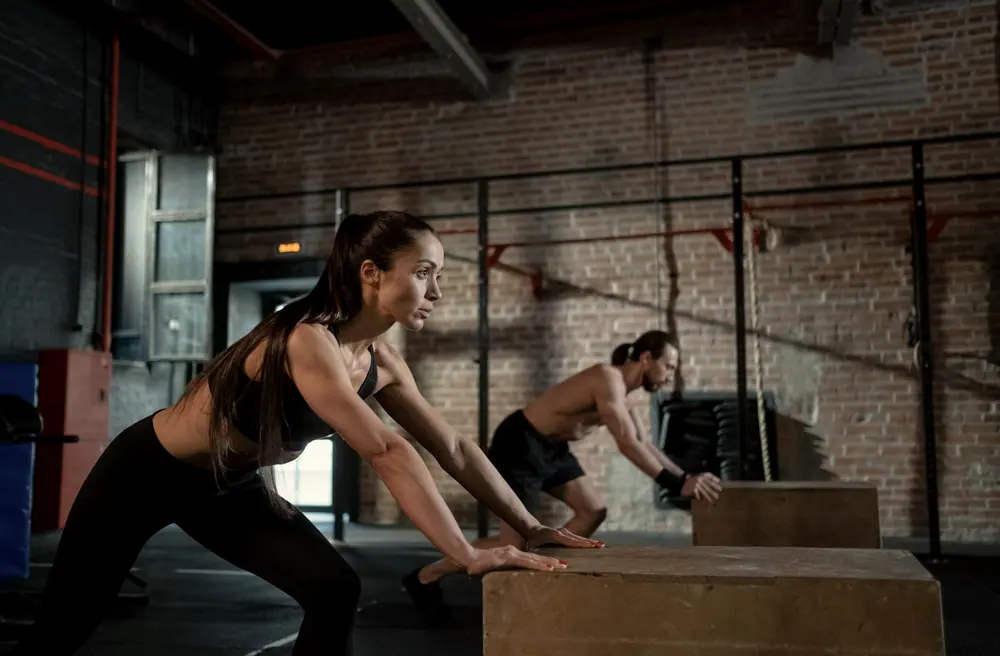
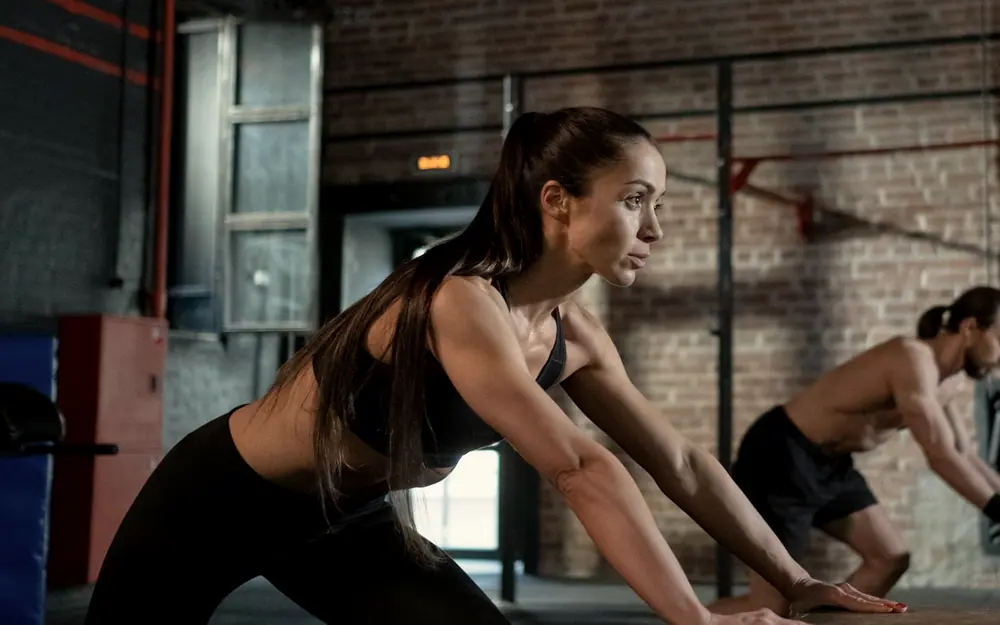
Mobile hero: CTA in first screen, shorter eyebrow, tighter crop
- On phones the action buttons sit right under the photo (lead text
  follows), with a slightly smaller title and 16:10 photo, so
  "Rasti treniruotę" is visible without scrolling (checked at 360x640
  and 390x700)
- Eyebrow drops "· Vilnius" below 560px so it fits on one line
- Mobile hero crop centres on the athlete

diff --git a/src/styles.css b/src/styles.css
@@ -212,16 +212,17 @@ main:focus { outline: none; }
 }
 .hero__inner { display: grid; gap: 22px; }
 .hero__eyebrow { order: 0; }
+@media (max-width: 559px) { .hero__eyebrow-city { display: none; } }
 .hero__title {
   order: 1; position: relative; z-index: 2;
-  font-size: clamp(4.6rem, 23vw, 13.2rem); line-height: 0.84; margin-bottom: -0.3em;
+  font-size: clamp(4.2rem, 20vw, 13.2rem); line-height: 0.84; margin-bottom: -0.3em;
 }
 .hero__line { display: block; }
 .hero__line:nth-child(2) { padding-left: 0.9em; }
 .hero__dot { color: var(--lime); }
 .hero__media {
   order: 2; position: relative; margin-inline: calc(var(--gutter) * -1);
-  aspect-ratio: 16 / 10.5; overflow: hidden; background: var(--ink-3);
+  aspect-ratio: 16 / 10; overflow: hidden; background: var(--ink-3);
 }
 .hero__media img { width: 100%; height: 100%; object-fit: cover; object-position: 40% 30%; filter: saturate(0.88) contrast(1.04); }
 .hero__media::after { content: ''; position: absolute; inset: 0 0 auto; height: 40%; background: linear-gradient(var(--ink), transparent); opacity: 0.85; }
@@ -743,3 +744,9 @@ main:focus { outline: none; }
 /* Draw each line once when its row scrolls into view (skipped under reduced motion: .has-reveal is not set). */
 .has-reveal .rhythm__row:not(.is-in) .rhythm__line { stroke-dashoffset: 1; }
 .has-reveal .rhythm__row .rhythm__line { transition: stroke-dashoffset 1.8s cubic-bezier(0.45, 0, 0.2, 1), opacity 0.3s; }
+
+/* Mobile hero: primary action sits right under the photo so it is visible in the first screen. */
+@media (max-width: 899px) {
+  .hero__copy { display: flex; flex-direction: column; gap: 20px; margin-top: 4px; }
+  .hero__actions { order: -1; }
+}

diff --git a/index.html b/index.html
@@ -75,7 +75,7 @@
       <!-- ============ HERO ============ -->
       <section class="hero" id="top" aria-labelledby="hero-title">
         <div class="hero__inner">
-          <p class="eyebrow hero__eyebrow">Funkcinio treniravimo studija · Vilnius</p>
+          <p class="eyebrow hero__eyebrow"><span>Funkcinio treniravimo studija<span class="hero__eyebrow-city"> · Vilnius</span></span></p>
           <h1 class="hero__title" id="hero-title">
             <span class="hero__line">Judėk</span>
             <span class="hero__line">savo</span>
@@ -88,7 +88,7 @@
                 src="/img/hero-m-1000.webp"
                 srcset="/img/hero-m-640.webp 640w, /img/hero-m-1000.webp 1000w, /img/hero-m-1400.webp 1400w"
                 sizes="100vw"
-                width="1400" height="919"
+                width="1400" height="875"
                 alt="Sportininkė stumia medinę dėžę industrinėje salėje, šalia treniruojasi kitas sportininkas"
                 fetchpriority="high" />
             </picture>
